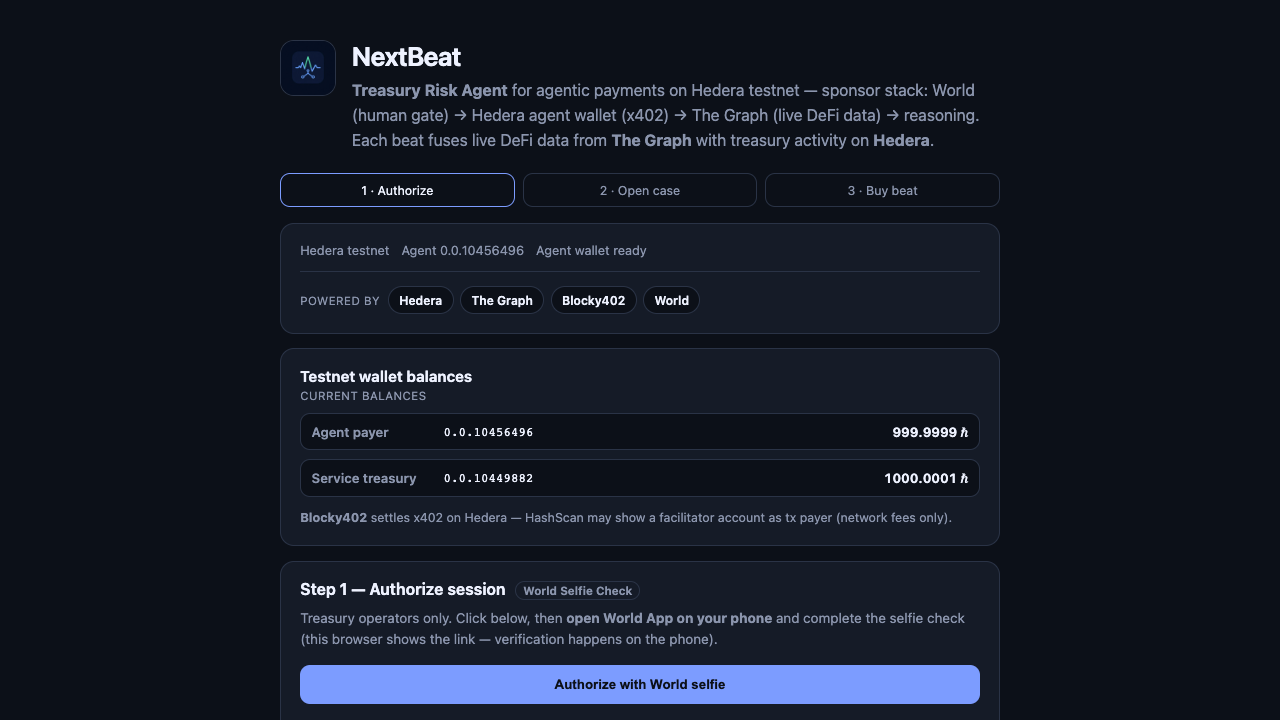
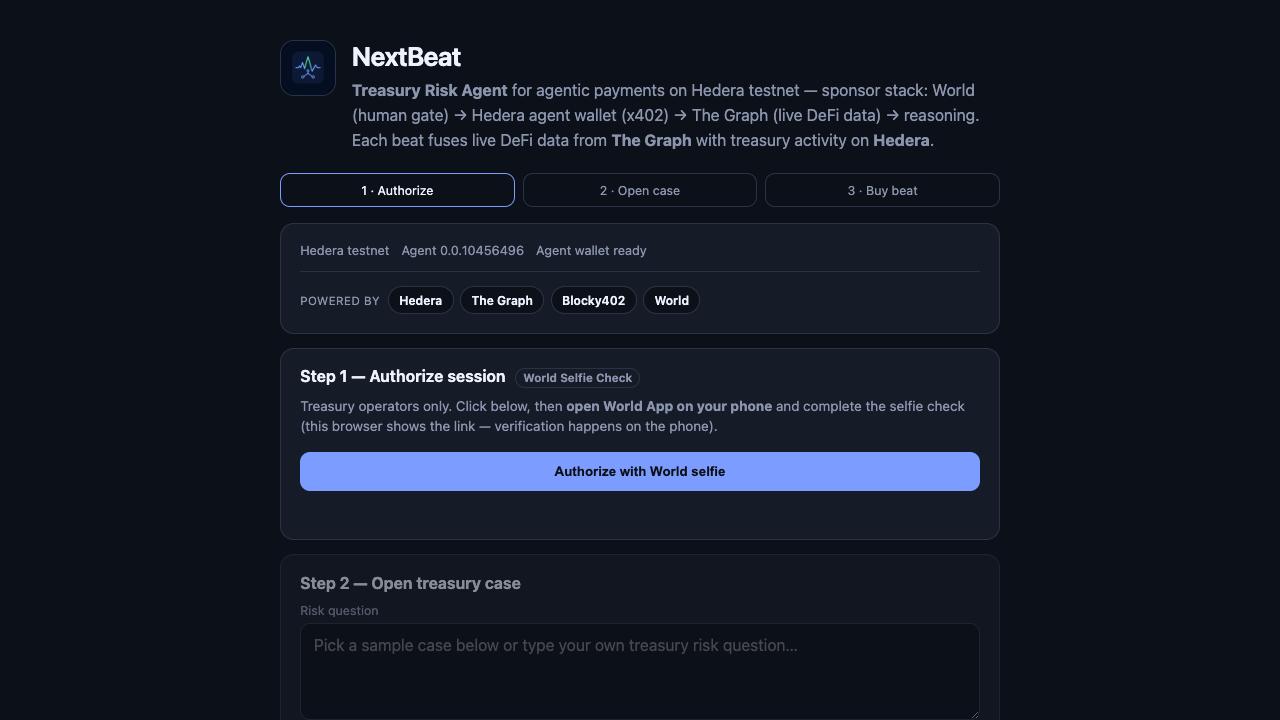
fix: distinct submission screenshots for World gate vs case form
Screenshot 1 shows Step 1 World Selfie gate; screenshot 2 shows filled treasury case and Buy beat.

Changed region(s): [[0.2188, 0.5194, 0.7812, 0.7333], [0.2188, 0.7944, 0.7812, 0.9778]]

diff --git a/README.md b/README.md
@@ -149,9 +149,9 @@ Paid buys need Hedera testnet keys in the Vercel project env (agent + service ac
 |---|---|---|
 | [`images/logo-512.png`](./images/logo-512.png) | 512×512 | Project logo |
 | [`images/cover-640x360.png`](./images/cover-640x360.png) | 640×360 | Cover |
-| [`images/screenshot-01-desk.png`](./images/screenshot-01-desk.png) | 1280×720 | Desk |
-| [`images/screenshot-02-assignment.png`](./images/screenshot-02-assignment.png) | 1280×720 | Assignment form |
-| [`images/screenshot-03-beat.png`](./images/screenshot-03-beat.png) | 1280×720 | Settled beat |
+| [`images/screenshot-01-desk.png`](./images/screenshot-01-desk.png) | 1280×720 | Step 1 — World Selfie Check gate |
+| [`images/screenshot-02-assignment.png`](./images/screenshot-02-assignment.png) | 1280×720 | Step 2 — treasury case + Buy beat |
+| [`images/screenshot-03-beat.png`](./images/screenshot-03-beat.png) | 1280×720 | Settled beat — agent run + HashScan proof |
 
 ## How it works
 
